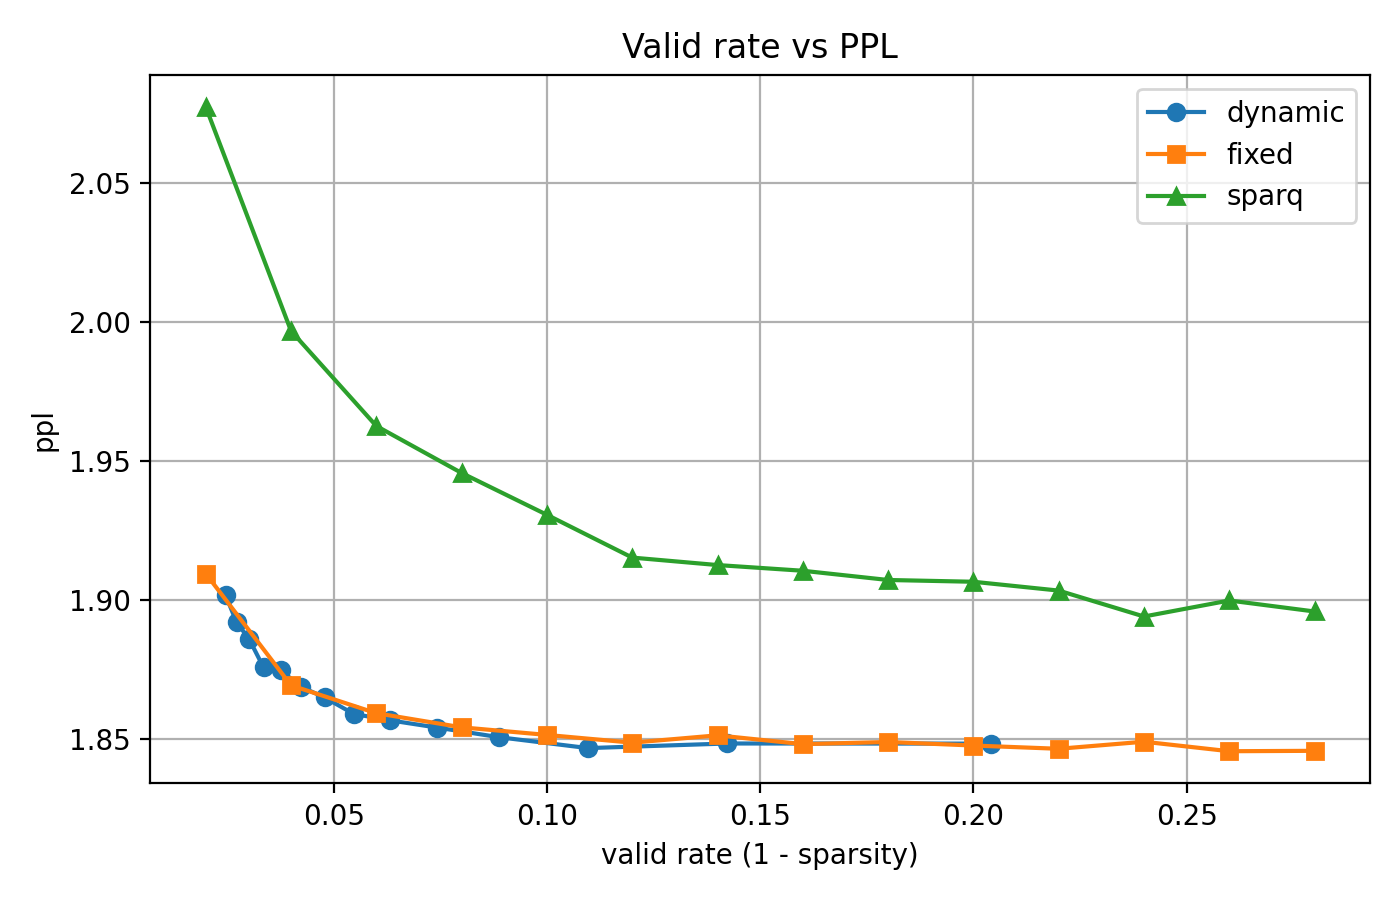
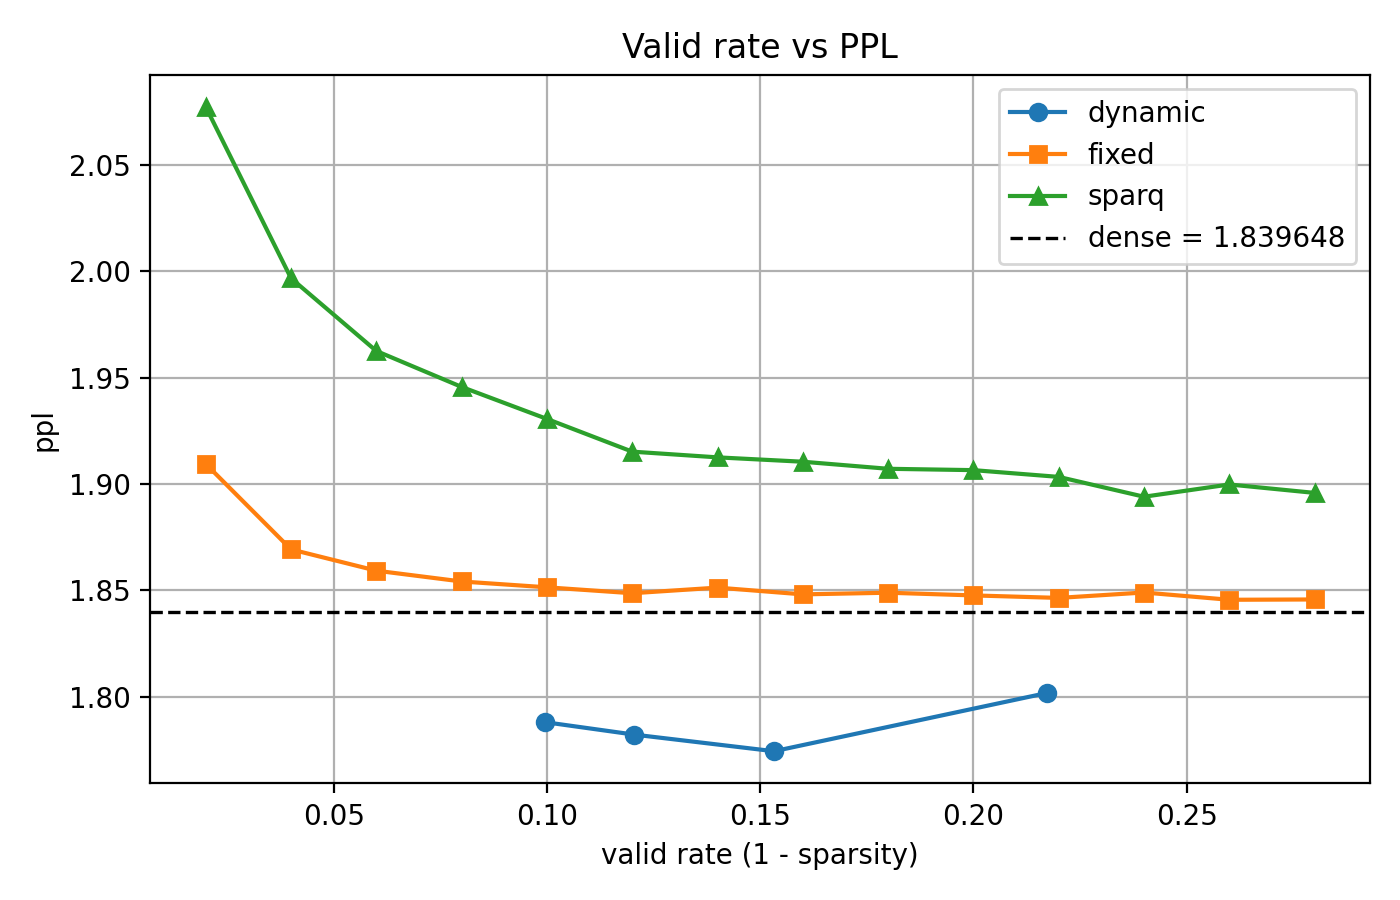
update

diff --git a/scripts/results.py b/scripts/results.py
@@ -1,20 +1,12 @@
 # %%
 dynamic_results = [
-    (0.98, 1.84833984375, {"n_selected": 216413538, "total_tokens": 1060050432}),
-    (0.96, 1.848388671875, {"n_selected": 150808834, "total_tokens": 1060050432}),
-    (0.94, 1.846728515625, {"n_selected": 116208385, "total_tokens": 1060050432}),
-    (0.92, 1.850634765625, {"n_selected": 94176696, "total_tokens": 1060050432}),
-    (0.9, 1.8541015625, {"n_selected": 78723182, "total_tokens": 1060050432}),
-    (0.88, 1.856689453125, {"n_selected": 67080427, "total_tokens": 1060050432}),
-    (0.86, 1.859033203125, {"n_selected": 57948232, "total_tokens": 1060050432}),
-    (0.84, 1.86494140625, {"n_selected": 50744080, "total_tokens": 1060050432}),
-    (0.82, 1.86875, {"n_selected": 44865320, "total_tokens": 1060050432}),
-    (0.8, 1.87470703125, {"n_selected": 39854969, "total_tokens": 1060050432}),
-    (0.78, 1.875732421875, {"n_selected": 35569635, "total_tokens": 1060050432}),
-    (0.76, 1.885888671875, {"n_selected": 31996334, "total_tokens": 1060050432}),
-    (0.74, 1.8919921875, {"n_selected": 28859786, "total_tokens": 1060050432}),
-    (0.72, 1.9017578125, {"n_selected": 26122896, "total_tokens": 1060050432}),
+    (0.98, 1.8017578125, {"n_selected": 8602535, "total_tokens": 39611520}),
+    (0.96, 1.7744140625, {"n_selected": 6070678, "total_tokens": 39611520}),
+    (0.94, 1.7822265625, {"n_selected": 4770621, "total_tokens": 39611520}),
+    (0.92, 1.7880859375, {"n_selected": 3941289, "total_tokens": 39611520}),
 ]
+dynamic = 1.72802734375
+dense = 1.7744140625
 
 sparsity = [
     1 - stats["n_selected"] / stats["total_tokens"] for _, _, stats in dynamic_results
@@ -79,6 +71,11 @@ def plot_valid_vs_ppl():
     plt.plot(dyn_valid, dyn_ppl, marker="o", label="dynamic")
     plt.plot(fixed_valid, fixed_ppl, marker="s", label="fixed")
     plt.plot(sparq_valid, sparq_ppl, marker="^", label="sparq")
+
+    # add horizontal line for dense ppl
+    plt.axhline(
+        y=dense, color="k", linestyle="--", linewidth=1.2, label=f"dense = {dense:.6f}"
+    )
 
     plt.xlabel("valid rate (1 - sparsity)")
     plt.ylabel("ppl")

diff --git a/llminference/methods/dynamic_attention.py b/llminference/methods/dynamic_attention.py
@@ -201,13 +201,14 @@ class AnnAttention(nn.Module):
             flat_weights.size(0), device=weights.device, dtype=weights.dtype
         )
         selected_indices = []
-
+        header_selected_len = []
         for i in range(flat_weights.size(0)):
             w = flat_weights[i]
             sorted_w, idx = torch.sort(w, descending=True)
             cumsum = torch.cumsum(sorted_w, dim=0)
             n = (cumsum >= threshold).nonzero(as_tuple=True)[0]
             n = n[0].item() + 1 if len(n) > 0 else len(sorted_w)
+            header_selected_len.append(n)
             if global_stats is not None:
                 global_stats["n_selected"] += n
                 global_stats["total_tokens"] += len(sorted_w)
@@ -220,6 +221,9 @@ class AnnAttention(nn.Module):
         mask = mask.view(orig_shape)
         pruned_weights = weights * mask
         pruned_weights_sum = pruned_weights.sum(dim=-1, keepdim=True) + 1e-8
+        # print(pruned_weights_sum)
+        # print(selected_weight_sum)
+        # todo, don't normalize.
         pruned_weights = pruned_weights / pruned_weights_sum
 
         # 计算 mean_value: (batch, n_kv_heads, n_heads_per_kv, n_query, head_size)
@@ -240,9 +244,9 @@ class AnnAttention(nn.Module):
         kv_weight = selected_weight_sum.view(batch, n_kv_heads, n_heads_per_kv, n_query)
 
         # Value-mixing with reallocation
-        pruned_weights = pruned_weights * kv_weight[..., None]
+        # pruned_weights = pruned_weights * kv_weight[..., None]
         output = pruned_weights @ value
-        output += (1 - kv_weight[..., None]) * mean_value
+        # output += (1 - kv_weight[..., None]) * mean_value
         return output, pruned_weights
 
     def forward(

diff --git a/scripts/dynamic.py b/scripts/dynamic.py
@@ -3,12 +3,12 @@ import llminference.experiments as xp
 
 global_results = []
 # %%
-for sparsity in [i / 100 for i in range(98, 70, -2)]:
+for sparsity in [i / 100 for i in range(98, 90, -2)]:
     global_stats = {"n_selected": 0, "total_tokens": 0}
     out = xp.run_one(
         xp.Experiment(
             "test",
-            task=xp.Task("wikitext_bpc", shots=0, samples=20, confusion_contexts=0),
+            task=xp.Task("wikitext_bpc", shots=0, samples=10, confusion_contexts=0),
             model="EleutherAI/pythia-410m",
             execution=xp.Execution(
                 device="mps",
@@ -37,6 +37,7 @@ for sparsity in [i / 100 for i in range(98, 70, -2)]:
     )
     global_results.append((sparsity, out["bpc"], global_stats))
     del out
+    break
 
 # %%
 print(global_results)

diff --git a/scripts/dense.py b/scripts/dense.py
@@ -1,0 +1,28 @@
+# %%
+import llminference.experiments as xp
+
+global_results = []
+# %%
+
+out = xp.run_one(
+    xp.Experiment(
+        "test",
+        task=xp.Task("wikitext_bpc", shots=0, samples=1, confusion_contexts=0),
+        model="EleutherAI/pythia-410m",
+        execution=xp.Execution(
+            device="mps",
+            dtype="float16",
+            batch_size=1,
+            pipeline_stages=1,
+            wandb=False,
+        ),
+        sparsity=xp.Sparsity(
+            "dense",
+        ),
+    )
+)
+
+print({k: v for k, v in out.items() if k not in {"model_config", "results"}})
+del out
+
+# %%

diff --git a/scripts/fixed.py b/scripts/fixed.py
@@ -7,12 +7,12 @@ for sparsity in [i / 100 for i in range(98, 70, -2)]:
     out = xp.run_one(
         xp.Experiment(
             "test",
-            task=xp.Task("wikitext_bpc", shots=0, samples=20, confusion_contexts=0),
+            task=xp.Task("wikitext_bpc", shots=0, samples=1, confusion_contexts=0),
             model="EleutherAI/pythia-410m",
             execution=xp.Execution(
                 device="mps",
                 dtype="float16",
-                batch_size=2,
+                batch_size=1,
                 pipeline_stages=1,
                 wandb=False,
             ),

diff --git a/llminference/methods/indeces.py b/llminference/methods/indeces.py
@@ -1,0 +1,36 @@
+fixed_query = [
+    -0.6099,
+    1.7480,
+    -1.2344,
+]
+fixed_indeces = [
+    1270,
+    1271,
+    1272,
+    1273,
+    1274,
+    1275,
+    1276,
+    1277,
+    1278,
+    1279,
+    1280,
+    1281,
+    1282,
+    1283,
+    1263,
+    1265,
+    1267,
+    1165,
+    1268,
+    1108,
+    1269,
+    1168,
+    1238,
+    1266,
+    1228,
+    1125,
+]
+query = [-0.6099, 1.7480, -1.2344]
+
+dynamic_idx = [1283, 1281, 1282]

diff --git a/llminference/methods/fixed_attention.py b/llminference/methods/fixed_attention.py
@@ -254,6 +254,7 @@ class AnnAttention(nn.Module):
         indices = topk_score.topk(
             min(valid_len, score.shape[-1]), -1
         ).indices  # (batch, n_kv_heads, 1, 1, k+1)
+
         if self.debug_indices is not None:
             self.debug_indices.append(indices)
 
